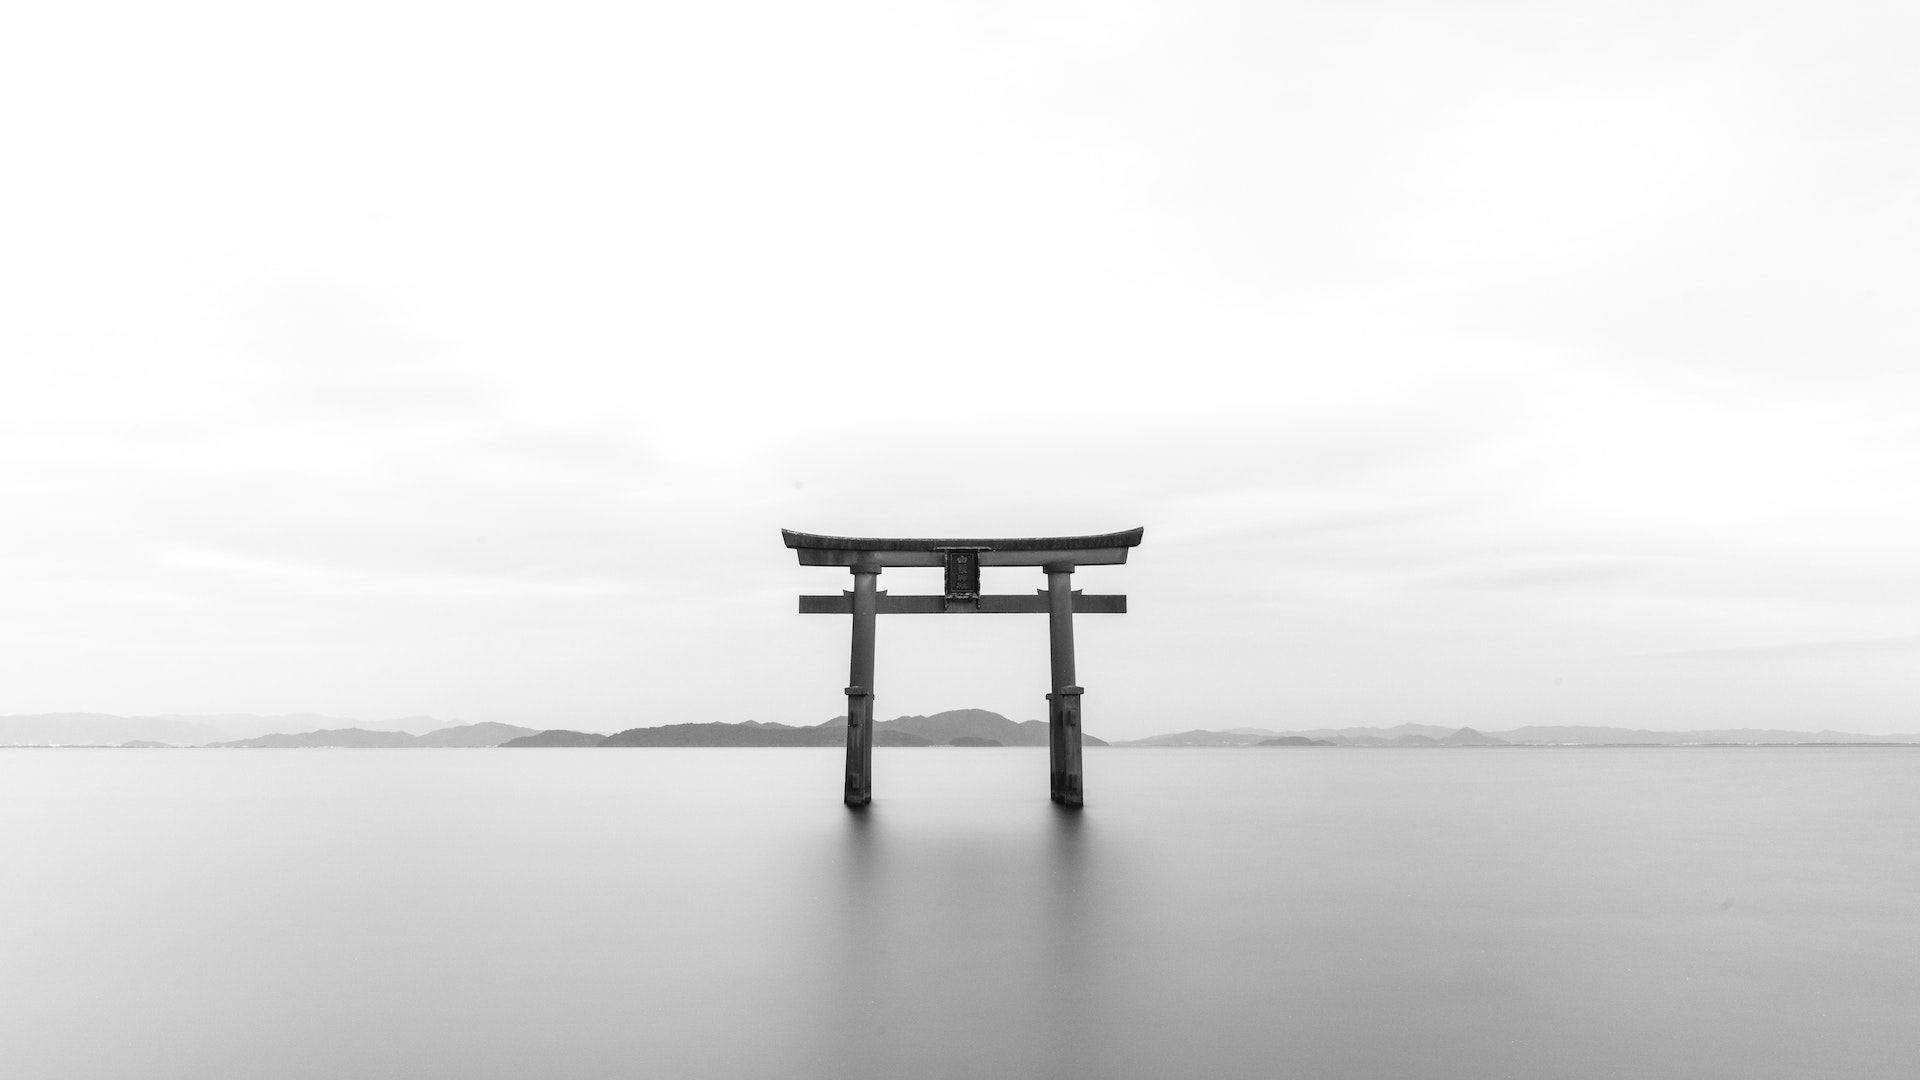
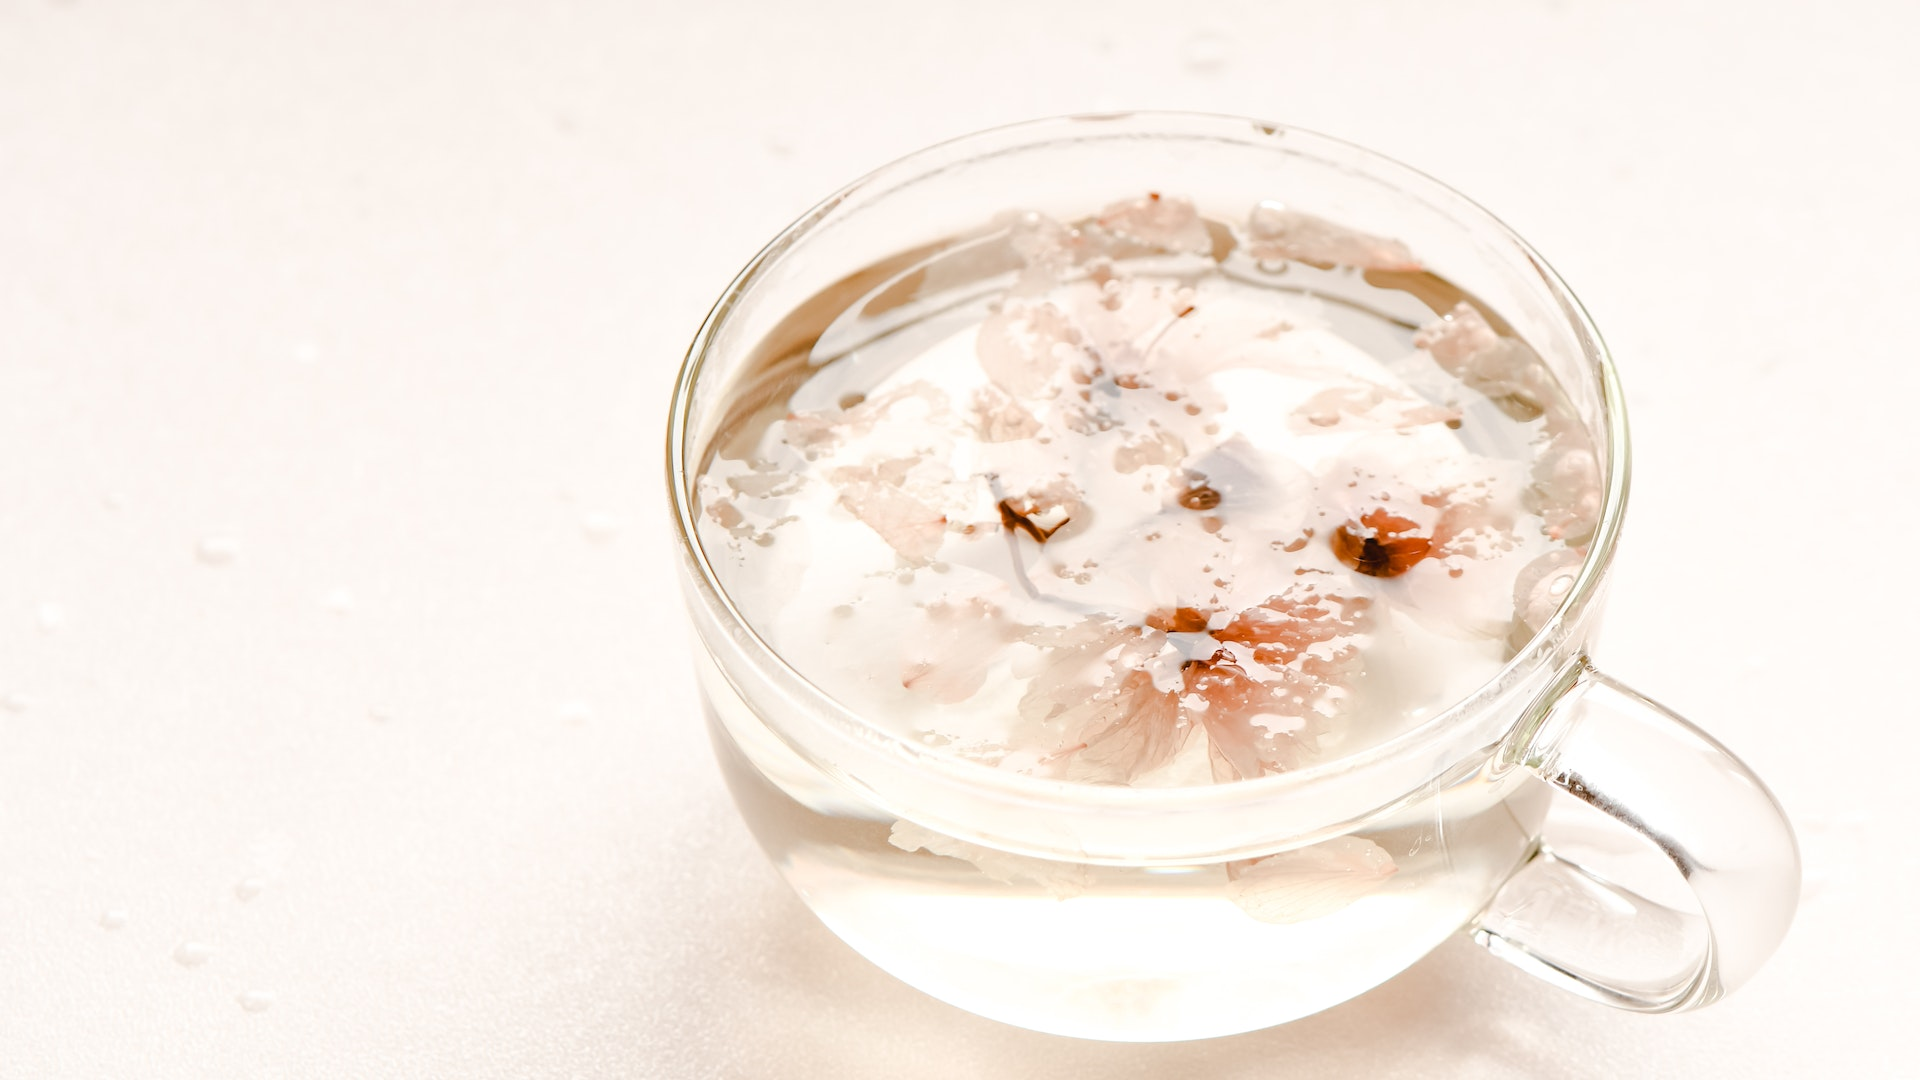
master

diff --git a/src/styles/Modal.css b/src/styles/Modal.css
@@ -5,104 +5,120 @@
   width: 100%;
   height: 100%;
   background-color: rgba(0, 0, 0, 0.6);
-  z-index: 1;
   backdrop-filter: blur(5px);
 }
 
-.modal-body {
-  position: fixed;
-  top: 50%;
-  left: 50%;
-  transform: translate(-50%, -50%);
-  background-color: transparent;
-  border: 1px solid black;
-  padding: 20px;
-  border-radius: 10px;
-  display: grid;
-  grid-template-columns: repeat(5, 1fr);
-  grid-template-rows: repeat(5, 1fr);
-  grid-column-gap: 0px;
-  grid-row-gap: 0px;
-  z-index: 10;
-}
+  .modal-body {
+
+    position: fixed;
+    top: 50%;
+    left: 50%;
+    width: 70vh;
+    height: 70vh;
+    transform: translate(-50%, -50%);
+    padding: 0.75rem;
+
+    background-color: transparent;
+    border: 1px solid black;
+
+    border-radius: 8.4px;
+    display: grid;
+    grid-template-columns: repeat(5, 1fr);
+    grid-template-rows: repeat(6, 1fr);
+    grid-column-gap: 0px;
+    grid-row-gap: 0px;
+
+  }
 
 .kanji{
-  grid-area: 1 / 1 / 5 / 4;
+  grid-area: 1 / 1 / 5 / 6;
+
+
 }
 
-.kanji path {
-  fill: none;
-  stroke: rgb(145, 7, 7);
-  stroke-width: 2;
-  
-}
+  .kanji path {
+    fill: none;
+    stroke: rgb(145, 7, 7);
+    stroke-width: 5;
+
+  }
 
 .modal-details {
   display: flex;
-  flex-direction: column;
-  align-items: center;
-  justify-content: center;
-  text-align: center;
-  
-  margin-left: 20px;
-  grid-area: 1 / 4 / 6 / 6;
-  
+  flex-direction: row;
+  grid-area: 5 / 1 / 6 / 6;
+  justify-content: space-between;
+  margin-bottom: 5%;
+
 }
 
-.modal-details h1 {
-  flex-grow: 1;
-}
+  .left-column {
+    display: flex;
+    flex-direction: column;
+    justify-content: space-between;
+    word-wrap: break-word;
+    width: 33.3%;
+  }
 
-.modal-details button {
-  text-shadow: 1px 1px 2px rgb(209, 182, 182), 0 0 1em rgb(255, 255, 255), 0 0 0.2em rgb(255, 255, 255);
-  margin-top: 10px;
-  width: 7em;
-  border-radius: 4.2px 4.2px 4.2px 4.2px;
-  background-color: transparent;
-  border: 1px solid black;
-  transition: 0.5s;
-}
+  .mid-column{
+    display: flex;
+    flex-direction: column;
+    justify-content: space-around;
+    width: 33.3%;
+  }
+
+  .mid-column h1 {
+    font-size: 333%;
+  }
+
+  .right-column {
+    display: flex;
+    flex-direction: column;
+    justify-content: space-between;
+    word-wrap: break-word;
+    width: 33.3%;
+  }
 
 .controls {
-  
-  border: 1px solid black;
-  grid-area: 5 / 1 / 6 / 4;
-
-  display: grid;
-  grid-template-columns: fit-content(100%) 1fr fit-content(100%);
-  justify-items: center;
-  
-
+  grid-area: 6 / 1 / 7 / 6;
+  display: flex;
+  flex-direction: row;
+  justify-content: space-between;
+  gap: 2.5%;
 }
 
-.controls button {
-  text-shadow: 1px 1px 2px rgb(209, 182, 182), 0 0 1em rgb(255, 255, 255), 0 0 0.2em rgb(255, 255, 255);
-  border-radius: 4.2px 4.2px 4.2px 4.2px;
-  background-color: transparent;
-  border: 1px solid black;
-  transition: 0.5s;
-}
+  .ctrls-column {
+    display: flex;
+    flex-direction: column;
+    justify-content: space-between;
+    gap: 1rem;
+    flex-grow: 1;
+    width: 3rem;
+    
+  }
 
-.ctrls-mid button{
-  width: 100%;
-  height: 50%;
+  .ctrls-column button{
+    height: 100%;
+    justify-content: center;
+    align-items: center;
+  }
 
-}
+  .row-btn {
+    flex-grow: 1;
+  }
 
-.stroke-arrow button{
-  width: 100%;
-  height: 100%;
-}
+  .controls button {
+    text-shadow: 1px 1px 2px rgb(209, 182, 182), 0 0 1em rgb(255, 255, 255), 0 0 0.2em rgb(255, 255, 255);
+    border-radius: 4.2px 4.2px 4.2px 4.2px;
+    background-color: transparent;
+    border: 1px solid black;
+    transition: 0.5s;
+  }
 
-.modal-details button:hover{
-  cursor: pointer;
-  box-shadow: 0px 5px 10px 0px rgba(0, 0, 0, 0.5);
-}
-
-.controls button:hover{
-  cursor: pointer;
-  box-shadow: 0px 5px 10px 0px rgba(0, 0, 0, 0.5);
-}
+  .controls button:hover{
+    cursor: pointer;
+    box-shadow: 0px 5px 10px 0px rgba(0, 0, 0, 0.5);
+  }
 
 @keyframes draw {
   to {
@@ -110,7 +126,7 @@
   }
 }
 
-@media screen and (max-width: 360px){
+@media all and (min-width: 300px) and (max-width: 620px){
 
   .modal-body {
     position: fixed;
@@ -123,31 +139,15 @@
     border-radius: 10px;
     display: grid;
     grid-template-columns: repeat(5, 1fr);
-    grid-template-rows: repeat(5, 1fr);
+    grid-template-rows: repeat(6, 1fr);
     grid-column-gap: 0px;
-    grid-row-gap: 0px;
+    grid-row-gap: 1%;
     width: 90%;
     height: 95%;
-    z-index: 10;
   }
 
-  .modal-details {
-    display: flex;
-    flex-direction: column;
-    align-items: center;
-    justify-content: center;
-    text-align: center;
-    margin-left: 20px;
-    grid-area: 1 / 4 / 6 / 6;
-  }
 
-  .stroke-arrow{
-    width: 3em;
-  }
 
-  .controls {
-    border: 1px solid black;
-    grid-area: 5 / 1 / 6 / 4;
-  }
+
   
 }

diff --git a/src/components/Modal.tsx b/src/components/Modal.tsx
@@ -137,52 +137,56 @@ const Modal: React.FC<ModalProps> = ({ show, kanji, hideModal, handleSaveKanji, 
 
         <div className="kanji">
           <svg
-            width="100%"
-            height="100%"
             viewBox="0 0 100 100"
+            width="100%" height="100%"
             xmlns="http://www.w3.org/2000/svg"
             xmlnsXlink="http://www.w3.org/1999/xlink"
             xmlSpace="preserve"
             version="1.1"
             baseProfile="full"
           >
+           
             {strokes && <g dangerouslySetInnerHTML={{ __html: strokes.outerHTML }} />}
           </svg>
-
         </div>
 
-          <div className="controls">
+        <div className="controls">
 
-            <div className='stroke-arrow'>
-            <button onClick={handleMinusClick} > {'<'} </button>
-            </div>
-
-            <div className="ctrls-mid">
-            <button onClick={draw}>Draw</button>    
-            <button onClick={deleteStrokes} id="delete-btn">Erase</button>       
-            </div>
-
-            <div className='stroke-arrow'>
-            <button onClick={handlePlusClick} > {'>'} </button>
-            </div>
-
-            
-
-
+          <button onClick={handleMinusClick} className='row-btn'><h5>{'Prev'}</h5></button>
+          
+          <div className="ctrls-column">
+            <button onClick={draw} id='draw-btn'><h5>Draw</h5></button>    
+            <button onClick={deleteStrokes} id="delete-btn"><h5>Erase</h5></button>       
           </div>
 
-        <div className="modal-details">
-          <h1>{kanji.character}</h1>
-          <h3>Meanings: {kanji.meanings.join(", ")}</h3>
-          <h3>Kun'yomi: {kanji.readings_kun || "N/A" }</h3> 
-          <h3>On'yomi: {kanji.readings_on || "N/A" }</h3>
-          <h3>Strokes: {kanji.strokes}</h3>
-          <button onClick={() => handleSaveKanji(kanji)}><h5>Move to learned</h5></button>
-          <button onClick={() => createAnkiCard(kanji, `${kvgIndex}`, strokes)}><h5>Create anki card</h5></button>         
-          <button onClick={hideModal}><h5>Close</h5></button>
+          <button onClick={handlePlusClick} className='row-btn'><h5>{'Next'}</h5></button>
+          
+          <div className="ctrls-column">
+            <button onClick={() => handleSaveKanji(kanji)}><h5>{'Move to learned'}</h5></button>
+            <button onClick={() => createAnkiCard(kanji, `${kvgIndex}`, strokes)}><h5>Create anki card</h5></button>         
+          </div>
+          
+          <button onClick={hideModal} className='row-btn'><h5>Close</h5></button>
+          
         </div>
-        
 
+        <div className="modal-details">
+
+          <div className='left-column'>
+            <div id='meanings'><h5>Meanings: {kanji.meanings.join(", ")}</h5></div>
+            <div><h5>Strokes: {kanji.strokes}</h5></div> 
+          </div>
+
+          <div className="mid-column">
+            <h1>{kanji.character}</h1>
+          </div>
+
+          <div className="right-column">
+            <div><h5>On'yomi: {kanji.readings_on || "N/A" }</h5></div>
+            <div><h5>Kun'yomi: {kanji.readings_kun || "N/A" }</h5></div>
+          </div>
+
+        </div>
 
       </div>
     </div>

diff --git a/src/styles/App.css b/src/styles/App.css
@@ -7,7 +7,7 @@ body {
   margin: 0;
   padding: 0;
   font-family: Arial, Helvetica, sans-serif;
-  background-image: url("src/assets/media/img/spring/spring3.jpg");
+  background-image: url("src/assets/media/img/spring/spring2.jpg");
   background-attachment: fixed;
   background-repeat: no-repeat;
   background-size: cover;
